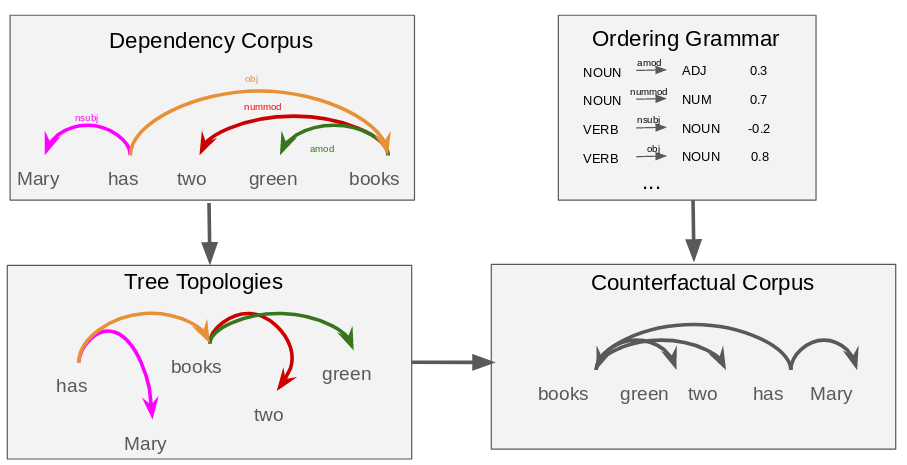
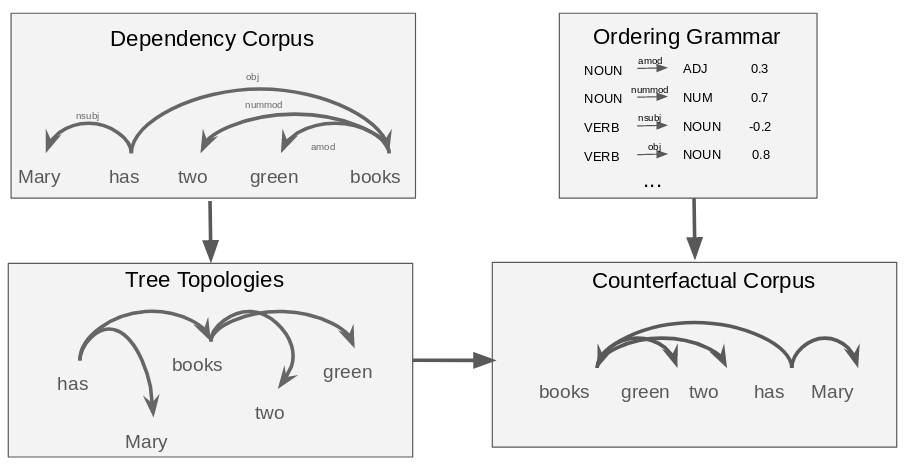
unified color scheme (which may require reworking)

diff --git a/writeup/paper-names.tex b/writeup/paper-names.tex
@@ -109,6 +109,9 @@ Third, we evaluate whether the optimized word order grammars reproduce the desir
 
 \section{Background}
 
+
+% TODO where do we say that we're basing our work on data from 51 languages?
+
 \subsection{Explananda: Word Order Correlations}
 
 Working with a database of 30 languages, Greenberg \cite{greenberg1963universals} proposed 45 universals of language that he determined to be true of most or all languages.
@@ -148,18 +151,18 @@ Arabic has basic order verb-object (VO) and prepositions (\emph{li} `to'), while
    %\depedge[arc angle=50]{7}{6}{ATT}
 \end{dependency}
 
-\begin{dependency}[theme=simple]
-    \begin{deptext}
-    I \& wrote \& a \& letter \& to \& a \& friend \\
-    \end{deptext}
-    \depedge{2}{1}{nsubj}
-    \depedge{2}{4}{obj}
-    \depedge{4}{3}{ }
-    \depedge{4}{3}{ }
-    \depedge{2}{5}{}
-    \depedge{5}{7}{ }
-    \depedge{7}{6}{ }
-\end{dependency}
+%\begin{dependency}[theme=simple]
+%    \begin{deptext}
+%    I \& wrote \& a \& letter \& to \& a \& friend \\
+%    \end{deptext}
+%    \depedge{2}{1}{nsubj}
+%    \depedge{2}{4}{obj}
+%    \depedge{4}{3}{ }
+%    \depedge{4}{3}{ }
+%    \depedge{2}{5}{}
+%    \depedge{5}{7}{ }
+%    \depedge{7}{6}{ }
+%\end{dependency}
 	\caption{A sentence in Arabic (top) and Japanese (bottom), translating to `I wrote a letter to a friend.' Note the reversal of word order: Arabic has verb-object order and prepositions, while Japanese has object-verb order and postpositions.}\label{fig:arabic-japanese}
 \end{figure}
 
@@ -314,10 +317,10 @@ These results are shown in more detail for two typologically distinct languages 
 
 \begin{figure*}
 \includegraphics[width=0.98\textwidth]{../results/plot-by-lang/grid-optimized.pdf} % need MLE langs and Efficiency langs on here
-\caption{Predictability (top) and parseability (bottom) of real, optimized, and random languages, for English (left) and Japanese (right). We provide cross-entropy for predictability (lower is better) and unlabeled attachment scores---a standard metric from natural language processing---for parseability (higher is better).}\label{fig:predict-pars}
+	\caption{Predictability (top) and parseability (bottom) of real, optimized, and random languages, for English (left) and Japanese (right). We provide the entropy $H[L_\theta(T)]$ for predictability (lower is better) and the conditional entropy $H[T|L_\theta(T)]$ for parseability (lower is better). Both measures are normalized by sentence length.}\label{fig:predict-pars}
 \end{figure*}
 
-Finally we demonstrate the relationship between dependency length minimization and the maximization of efficiency. Figure~\ref{fig:deplength} shows average dependency length per sentence length for four typologically distinct languages, showing real languages, random baselines, and languages optimized for dependency length, parseability, predictability, and efficiency. We see that optimizing for efficiency lowers dependency length relative to random baselines, in keeping with the suggestion that dependency length minimization is a by-product of efficiency maximization \cite{futrell2017memory}. In 3/4 of the cases shown, optimizing explicitly for dependency length produces dependencies that overshoot the depenndency length of the real language; in Chinese and Hindi, the real language is best matched by efficiency optimization.
+Finally we demonstrate the relationship between dependency length minimization and the maximization of efficiency. Figure~\ref{fig:deplength} shows average dependency length per sentence length for four typologically distinct languages, showing real languages, random baselines, and languages optimized for dependency length, parseability, predictability, and efficiency. We see that optimizing for efficiency lowers dependency length relative to random baselines, in keeping with the suggestion that dependency length minimization is a by-product of efficiency maximization \cite{futrell2017memory}. In 80\% of the languages, optimizing explicitly for dependency length produces dependencies that overshoot the depenndency length of the real language; in 3/4 of the lanuages shown, the real language is best matched by efficiency optimization.
 
 \begin{figure*} % need Efficiency and (maybe) MLE langs on here
 \includegraphics[width=0.98\textwidth]{../results/dependency-length/figures/depLength-facet.pdf}
@@ -351,11 +354,11 @@ verb    &    manner adverb    &    advmod    &    35    &    51    &    \textbf{
     \multicolumn{6}{l}{\footnotesize{Significance levels: $^*$: $p < 0.05$, $^{**}$: $p < 0.01$, $^{***}$: $p < 0.001$}}
 \end{tabular}
 	\end{center}
-	\caption{Greenbergian Correlations. Following \cite{dryer1992greenbergian}, each correlation is stated in terms of a pair of a `verb patterner' and an `object patterner' (the `Correlate' column), whose relative order correlates with that of verbs and objects.
-	For clarity, we organize the correlations by the category of the `verb patterner'.
-	For each correlation, we give our operationalization in terms of UD. A rightwards arrow indicates that the dependency is predicted to have the same direction as the \textit{obj} dependency; a leftwards arrow indicates an inverse correlation. 
-	For each correlation we report how many of the languages in our sample satisfied it (`Real').
-We then report, for each correlation and each objective function, how many of the optimized grammars satisfy the correlation, with the significance level in a logistic mixed-effects analysis across language families.}\label{table:results-dryer}
+	\caption{Greenbergian Correlations. Following \cite{dryer1992greenbergian}, each correlation is stated in terms of a pair of a `verb patterner' and an `object patterner', whose relative order correlate with that of verbs and objects.
+%	For clarity, we organize the correlations by the category of the `verb patterner'.
+	For each correlation, we give our operationalization in terms of UD. %A rightwards arrow indicates that the dependency is predicted to have the same direction as the \textit{obj} dependency; a leftwards arrow indicates an inverse correlation. 
+	For each correlation we report what percentage of the languages in our sample satisfied it (`Real').
+	We then report, for each correlation and each objective function, how many (in \%) of the optimized grammars satisfy the correlation, with the significance level in a logistic mixed-effects analysis across language families.}\label{table:results-dryer}
 \end{table*}
 
 %\begin{table*}
@@ -397,7 +400,7 @@ We conducted, for each correlation, a mixed-effects logistic regression model pr
 We are interested in the direction and significance of this effect: 
 If the effect is significant, in the positive direction, we can conclude that a correlation is predicted across corpora from languages belonging to different language families.
 
-We compare the prevalence of the word order correlations in simulated languages to their prevalence in the real languages. To do evaluate their presence in real languages, we tested for the correlations in word order grammars fit by maximum likelihood to actual orderings from treebanks. The word order correlations detected this way match linguistic descriptions compiled in the World Atlas of Linguistic Structures (WALS, \cite{wals}) in all except four languages, for WALS did not have data.
+We compare the prevalence of the word order correlations in simulated languages to their prevalence in the real languages. To do evaluate their presence in real languages, we tested for the correlations in word order grammars fit by maximum likelihood to actual orderings from treebanks. The word order correlations detected this way match linguistic descriptions compiled in the World Atlas of Linguistic Structures (WALS, \cite{wals}) to the extent that they are documented in WALS. %in all except four languages, for WALS did not have data.
 
 \paragraph{Results}
 Results are shown in Table~\ref{table:results-dryer}.
@@ -433,7 +436,7 @@ For dependency length, the posterior puts much of the probability mass on predic
    %  \includegraphics[scale=.2]{../results/correlations/figures/posterior-satisfied-universals-depl.pdf}
      \includegraphics[scale=.45]{../results/correlations/figures/posterior-satisfied-universals-together.pdf}
 
-	\caption{Posterior of the number of correlations predicted in the direction found in the UD treebanks.}
+	\caption{Posterior of the number of correlations predicted in the direction found in the UD treebanks, computed from a mixed-effects logistic regression jointly modeling all ten dependencies. Efficiency predicts all ten correlations with high posterior probability.}
     \label{fig:posterior-satisfied-count}
 \end{figure}
 
@@ -475,7 +478,7 @@ See the SI for details on the neural language models and parsers used, and on th
 
 \showmatmethods{} % Display the Materials and Methods section
 
-\acknow{We thank Ted Gibson, Michael C. Frank, Judith Degen, and audiences at CAMP 2018 for helpful discussion.}
+\acknow{We thank Ted Gibson, Michael C. Frank, Judith Degen, Chris Manning, and audiences at CAMP 2018 for helpful discussion.}
 
 \showacknow{} % Display the acknowledgments section
 

diff --git a/writeup/pnas-word-order-si.tex b/writeup/pnas-word-order-si.tex
@@ -5,6 +5,8 @@
 \DeclareMathOperator*{\argmin}{arg\,min}
 \DeclareMathOperator{\E}{\mathop{\mathbb{E}}}
 
+
+
 \usepackage{hyperref}
 
 \usepackage{amssymb}% http://ctan.org/pkg/amssymb
